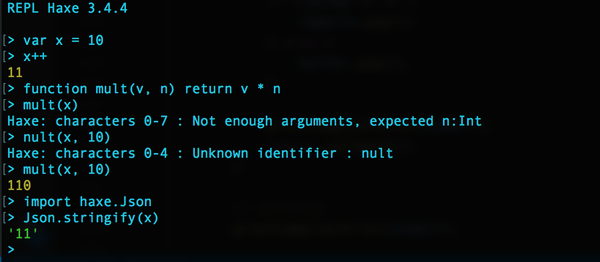
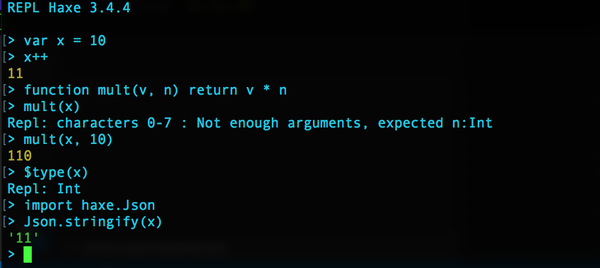
Better compiler error reporting

Changed region(s): [[0.0, 0.1221, 0.84, 0.9771], [0.0, 0.0, 0.24, 0.0611], [0.6, 0.5496, 0.66, 0.6107]]

diff --git a/index.js b/index.js
@@ -32,9 +32,10 @@ function printCompilerError(stderr) {
         const m = reErr.exec(line);
         if (m) {
             const desc = m[2];
-            if (desc.indexOf(WARNING) >= 0) console.log('Haxe:', desc.split(WARNING)[1]);
-            else console.log('Haxe:', desc);
+            if (desc.indexOf(WARNING) >= 0) console.log('Repl:', desc.split(WARNING)[1]);
+            else console.log('Repl:', desc);
         }
+        else if (line !== '') console.log(line);
     });
 }
 
